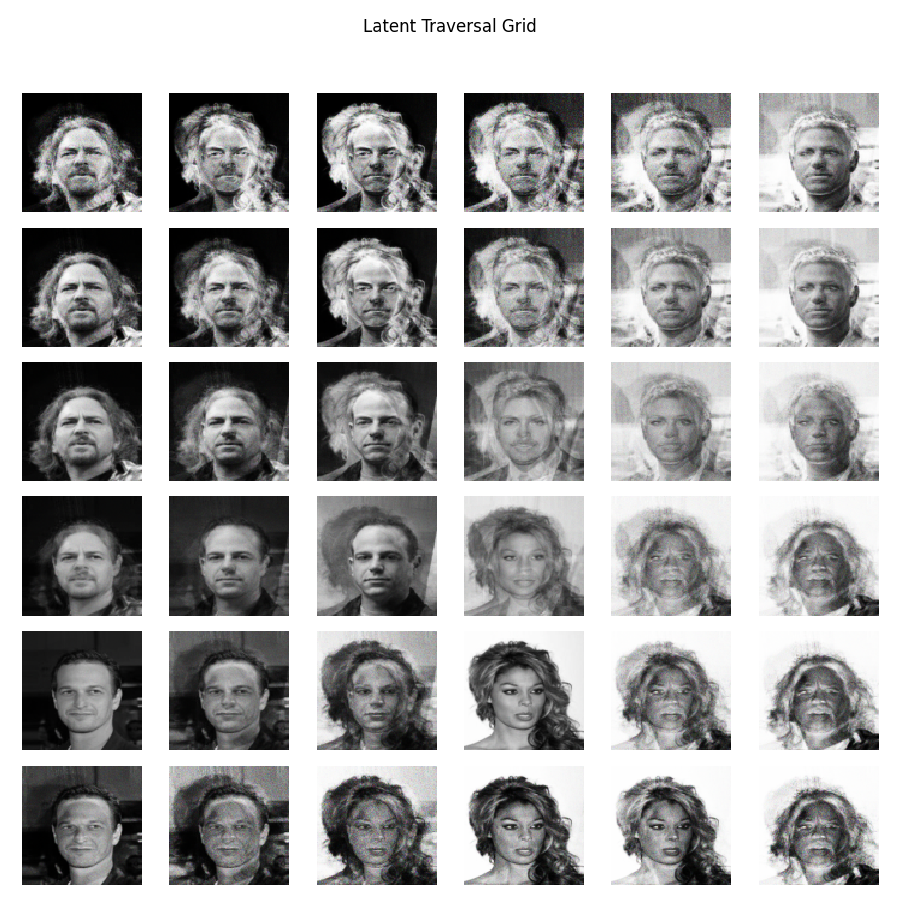
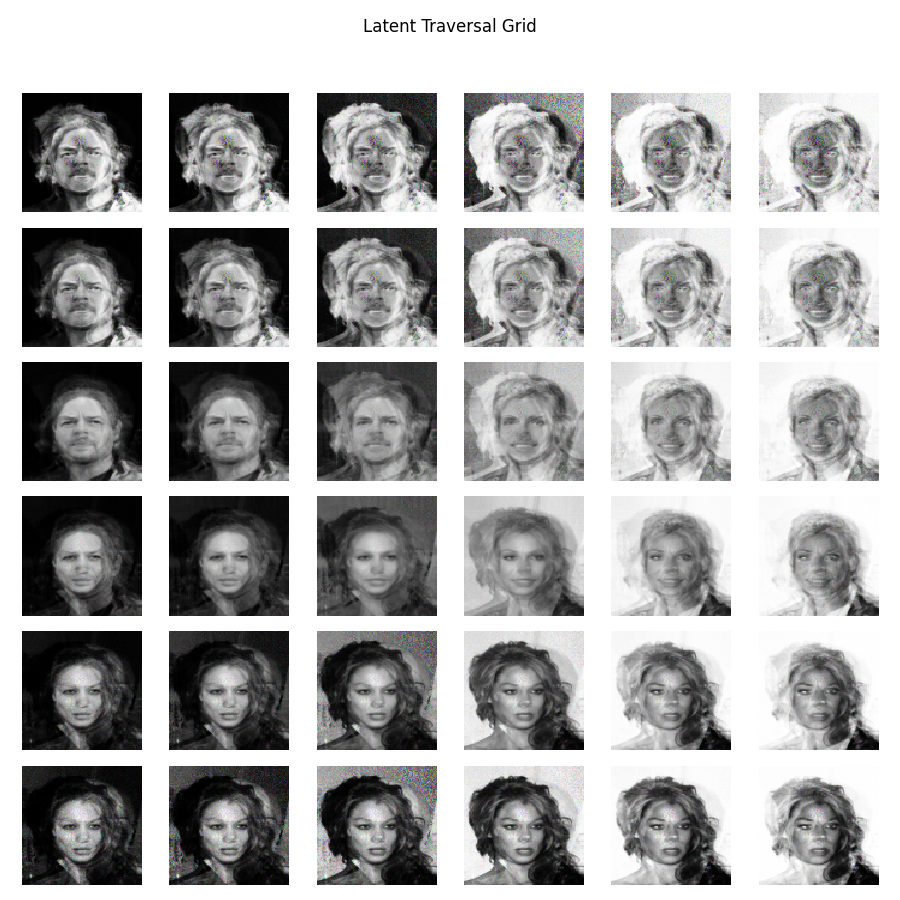
nit

diff --git a/src/models/autoencoders.py b/src/models/autoencoders.py
@@ -4,7 +4,7 @@ import numpy as np
 from src.models.components.mlp import MLP
 from src.models.components.layers import Dense
 from src.models.components.activation import Tanh, Sigmoid
-from src.models.components.loss import bce, bce_prime
+from src.models.components.loss import mse, mse_prime
 
 INPUT_DIM = 35    # 5 * 7 features, da el tamaño de la capa de entrada
 LATENT_DIM = 2
@@ -35,8 +35,8 @@ class VariationalAutoencoder:
         self.input_dim = input_dim
         self.latent_dim = latent_dim
         self.optimizer = optimizer
-        self.loss = bce
-        self.loss_prime = bce_prime
+        self.loss = mse
+        self.loss_prime = mse_prime
 
         if decoder_dims is None:
             decoder_dims = tuple(reversed(encoder_dims))

diff --git a/src/utils/photo_processor.py b/src/utils/photo_processor.py
@@ -59,4 +59,4 @@ def load_photo_dataset(
     if split_idx == 0 or split_idx == len(data):
         return data, data, labels, labels
 
-    return data[:split_idx], data[split_idx:], labels[:split_idx], labels[split_idx:]
+    return data.copy(), data.copy(), labels.copy(), labels.copy()

diff --git a/src/runnables/run_ej2_vae.py b/src/runnables/run_ej2_vae.py
@@ -25,7 +25,7 @@ from src.utils.data_analysis import (
 )
 
 LEARNING_RATE = 0.00082
-EPOCHS = 200
+EPOCHS = 10
 LATENT_DIM = 2
 RESULTS_BASE_DIR = Path('./results/ej2')
 CHECKPOINT_BASE_DIR = Path('./saved_models')
